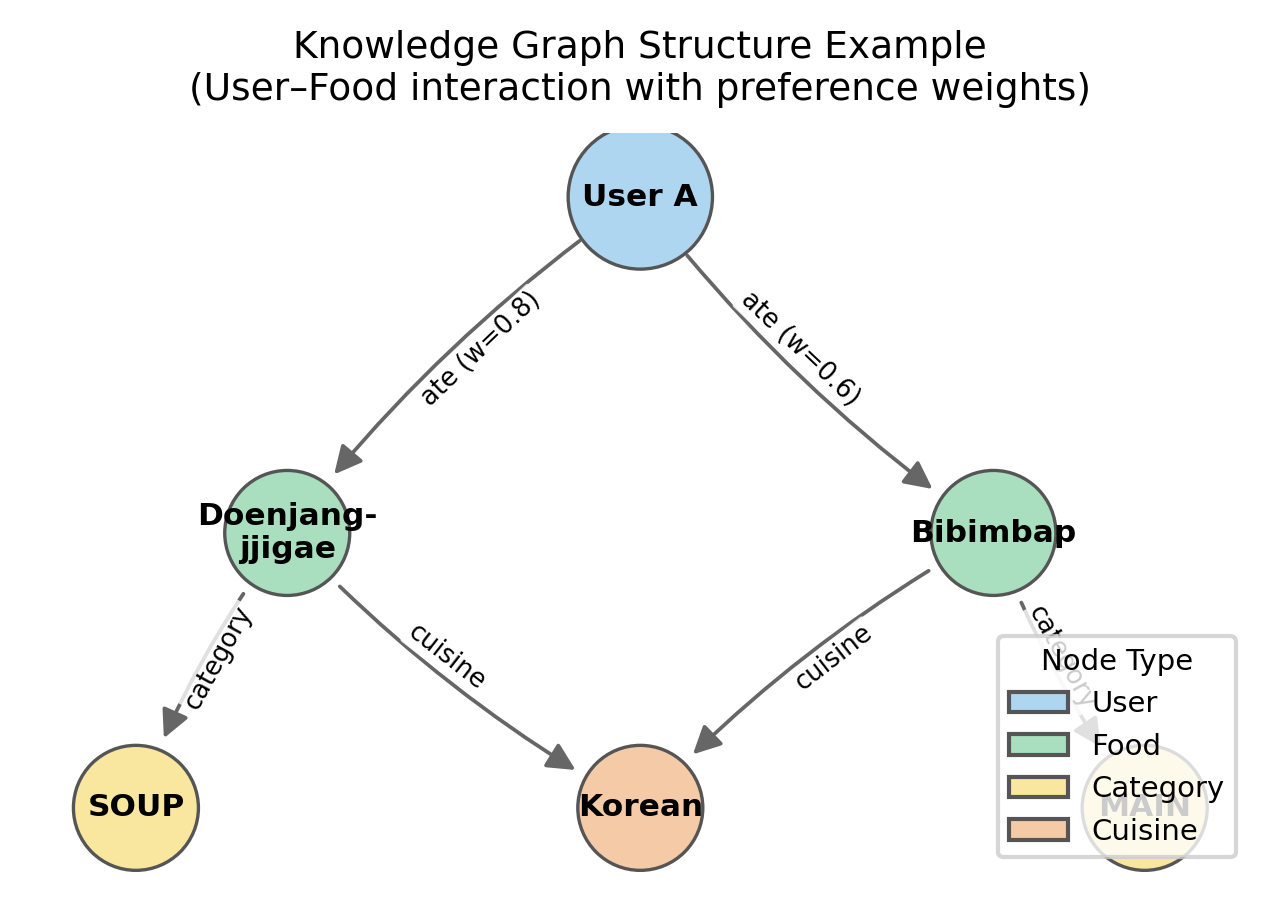
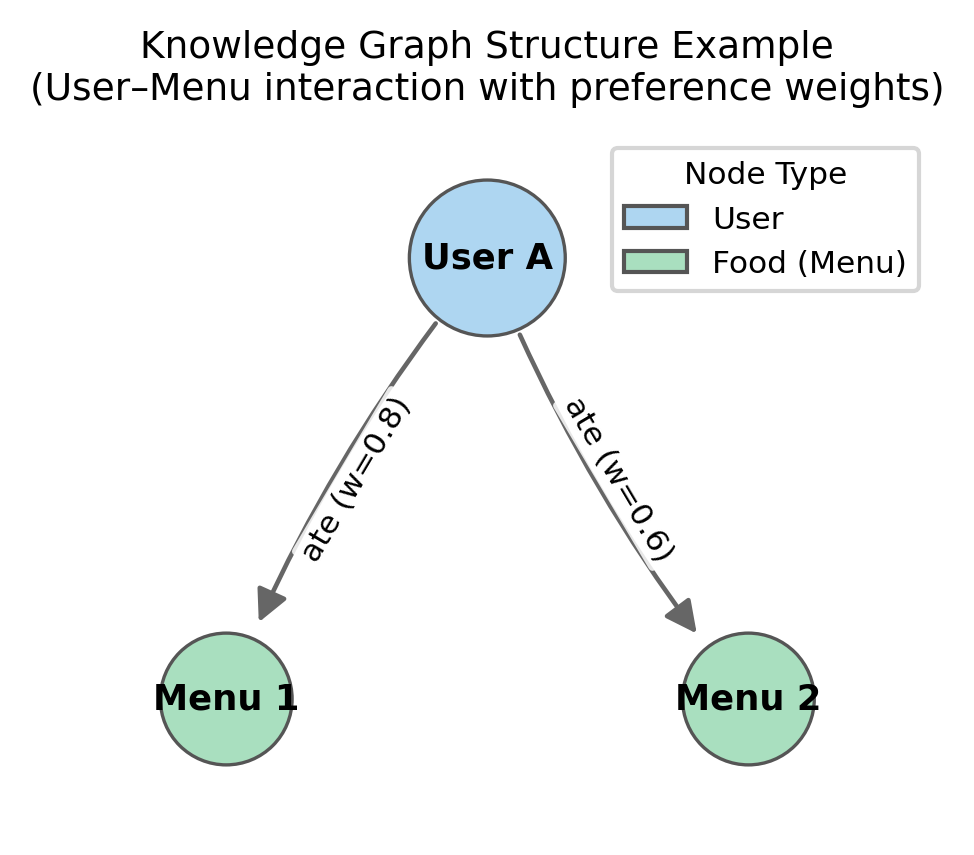
viz: sec2 KG 개념도 단순화 + sec3 식문화 분포 실험 5종으로 수정
- sec2_kg_concept: 카테고리·식문화 노드 제거, 음식명 → Menu 1/2 추상화
  (범례 4종 → User/Food 2종, 제목 User-Menu interaction으로 변경)
- sec3_distribution_chart: 식문화 패널 7종 → 실험 사용 5종(한·양·분·중·일)
  (Café·Other 제거, 서브타이틀 experiment cuisines n=1,265로 수정)
- 두 서브타이틀 수직 위치 정렬

diff --git a/experiment/visualization/paper_figures.py b/experiment/visualization/paper_figures.py
@@ -823,75 +823,64 @@ def sec2_kg_concept(out_dir: Path) -> None:
 
     G = nx.DiGraph()
 
-    # 노드 정의
+    # 노드 정의 — 카테고리·식문화는 노드로 표현하지 않고 본문에서 기술
     nodes = {
-        "User A":       {"type": "user"},
-        "Doenjang-\njjigae": {"type": "food"},
-        "Bibimbap":     {"type": "food"},
-        "SOUP":         {"type": "category"},
-        "MAIN":         {"type": "category"},
-        "Korean":       {"type": "cuisine"},
+        "User A": {"type": "user"},
+        "Menu 1": {"type": "food"},
+        "Menu 2": {"type": "food"},
     }
     for n in nodes:
         G.add_node(n)
 
     # 엣지 정의: (head, tail, label)
     edges = [
-        ("User A",        "Doenjang-\njjigae", "ate (w=0.8)"),
-        ("User A",        "Bibimbap",           "ate (w=0.6)"),
-        ("Doenjang-\njjigae", "SOUP",           "category"),
-        ("Doenjang-\njjigae", "Korean",         "cuisine"),
-        ("Bibimbap",      "MAIN",               "category"),
-        ("Bibimbap",      "Korean",             "cuisine"),
+        ("User A", "Menu 1", "ate (w=0.8)"),
+        ("User A", "Menu 2", "ate (w=0.6)"),
     ]
     for h, t, lbl in edges:
         G.add_edge(h, t, label=lbl)
 
     # 레이아웃 — 수동 위치 지정
     pos = {
-        "User A":           (0.5, 1.0),
-        "Doenjang-\njjigae": (0.15, 0.45),
-        "Bibimbap":         (0.85, 0.45),
-        "SOUP":             (0.0, 0.0),
-        "MAIN":             (1.0, 0.0),
-        "Korean":           (0.5, 0.0),
+        "User A": (0.5, 0.85),
+        "Menu 1": (0.15, 0.15),
+        "Menu 2": (0.85, 0.15),
     }
 
-    node_colors_map = {"user": "#aed6f1", "food": "#a9dfbf", "category": "#f9e79f",
-                       "cuisine": "#f5cba7"}
+    node_colors_map = {"user": "#aed6f1", "food": "#a9dfbf"}
     node_color = [node_colors_map[nodes[n]["type"]] for n in G.nodes()]
-    node_size  = [1200 if nodes[n]["type"] == "user" else 900 for n in G.nodes()]
+    node_size  = [1400 if nodes[n]["type"] == "user" else 1000 for n in G.nodes()]
 
-    fig, ax = plt.subplots(figsize=(DOUBLE_W * 0.75, 3.2))
+    fig, ax = plt.subplots(figsize=(DOUBLE_W * 0.55, 3.0))
     ax.axis("off")
+    ax.set_xlim(-0.1, 1.1)
+    ax.set_ylim(-0.05, 1.05)
 
     nx.draw_networkx_nodes(G, pos, ax=ax, node_color=node_color,
                            node_size=node_size, edgecolors="#555555", linewidths=0.8)
-    nx.draw_networkx_labels(G, pos, ax=ax, font_size=7.5, font_weight="bold")
+    nx.draw_networkx_labels(G, pos, ax=ax, font_size=8.5, font_weight="bold")
     nx.draw_networkx_edges(G, pos, ax=ax,
                            edge_color="#666666", arrows=True,
-                           arrowstyle="-|>", arrowsize=14,
+                           arrowstyle="-|>", arrowsize=16,
                            connectionstyle="arc3,rad=0.08",
-                           min_source_margin=18, min_target_margin=18,
-                           width=0.9)
+                           min_source_margin=20, min_target_margin=20,
+                           width=1.1)
     edge_labels = {(h, t): lbl for h, t, lbl in edges}
     nx.draw_networkx_edge_labels(G, pos, edge_labels=edge_labels, ax=ax,
-                                 font_size=6.2, label_pos=0.45,
-                                 bbox=dict(boxstyle="round,pad=0.1",
-                                           fc="white", ec="none", alpha=0.8))
+                                 font_size=7.5, label_pos=0.5,
+                                 bbox=dict(boxstyle="round,pad=0.15",
+                                           fc="white", ec="none", alpha=0.85))
 
     # 범례
     legend_patches = [
         mpatches.Patch(facecolor="#aed6f1", edgecolor="#555", label="User"),
-        mpatches.Patch(facecolor="#a9dfbf", edgecolor="#555", label="Food"),
-        mpatches.Patch(facecolor="#f9e79f", edgecolor="#555", label="Category"),
-        mpatches.Patch(facecolor="#f5cba7", edgecolor="#555", label="Cuisine"),
+        mpatches.Patch(facecolor="#a9dfbf", edgecolor="#555", label="Food (Menu)"),
     ]
-    ax.legend(handles=legend_patches, loc="lower right", fontsize=7,
-              frameon=True, title="Node Type", title_fontsize=7)
+    ax.legend(handles=legend_patches, loc="upper right", fontsize=7.5,
+              frameon=True, title="Node Type", title_fontsize=7.5)
 
     ax.set_title("Knowledge Graph Structure Example\n"
-                 "(User–Food interaction with preference weights)",
+                 "(User–Menu interaction with preference weights)",
                  fontsize=9, pad=8)
 
     out_path = out_dir / "fig_kg_concept.png"
@@ -1080,9 +1069,7 @@ def sec3_distribution_chart(out_dir: Path) -> None:
     }
     cuisine_data = {
         "Korean":   663,
-        "Café":     525,
         "Western":  448,
-        "Other":    386,
         "Bunsik":    90,
         "Chinese":   33,
         "Japanese":  31,
@@ -1090,8 +1077,11 @@ def sec3_distribution_chart(out_dir: Path) -> None:
 
     cat_colors_list = ["#9467bd", "#1f77b4", "#2ca02c", "#ff7f0e", "#d62728"]
     cuisine_colors_list = [
-        "#1f77b4", "#8c564b", "#ff7f0e", "#7f7f7f",
-        "#2ca02c", "#d62728", "#9467bd",
+        "#1f77b4",  # Korean
+        "#ff7f0e",  # Western
+        "#2ca02c",  # Bunsik
+        "#d62728",  # Chinese
+        "#9467bd",  # Japanese
     ]
 
     fig, (ax1, ax2) = plt.subplots(1, 2, figsize=(DOUBLE_W, 3.2))
@@ -1105,7 +1095,7 @@ def sec3_distribution_chart(out_dir: Path) -> None:
         ax1.text(bar.get_width() + 15, bar.get_y() + bar.get_height() / 2,
                  str(val), va="center", fontsize=8)
     ax1.set_xlabel("Item Count")
-    ax1.set_title("(a) Category Distribution")
+    ax1.set_title("(a) Category Distribution\n", pad=10)
     ax1.set_xlim(0, max(cat_vals) * 1.18)
     ax1.invert_yaxis()
 
@@ -1117,11 +1107,12 @@ def sec3_distribution_chart(out_dir: Path) -> None:
         ax2.text(bar.get_width() + 10, bar.get_y() + bar.get_height() / 2,
                  str(val), va="center", fontsize=8)
     ax2.set_xlabel("Item Count")
-    ax2.set_title("(b) Cuisine Distribution\n(price-tagged items, n=2,183)")
+    ax2.set_title("(b) Cuisine Distribution\n(experiment cuisines, n=1,265)", pad=10)
     ax2.set_xlim(0, max(cuisine_vals) * 1.22)
     ax2.invert_yaxis()
 
-    fig.suptitle("food_master Dataset Distribution (total 3,358 items)", fontsize=11, y=1.02)
+    fig.suptitle("food_master Dataset Distribution (total 3,358 items)", fontsize=11, y=1.06)
+    fig.subplots_adjust(top=0.82)
     out_path = out_dir / "fig_dataset_distribution.png"
     fig.savefig(out_path, dpi=DPI, bbox_inches="tight", facecolor="white")
     plt.close(fig)
